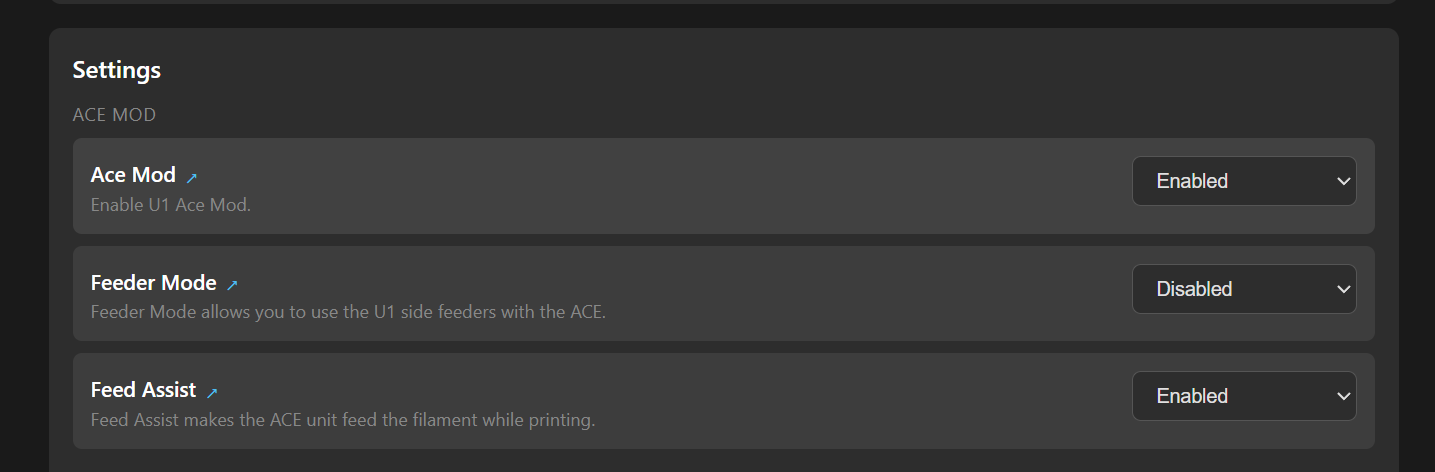
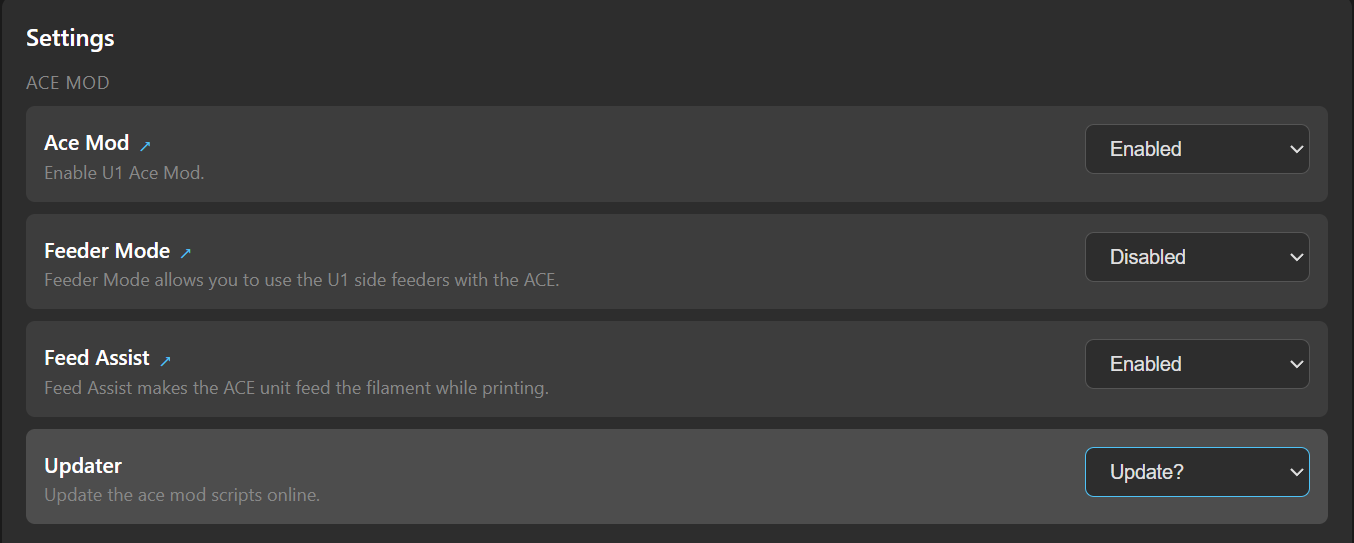
Update Readme

diff --git a/README.md b/README.md
@@ -38,6 +38,15 @@ To enable the ace mod use a web brower and navigate to `http://PRINTER-IP/firmwa
 
 <br><br>
 
+
+# Update Ace Mod
+
+To update the ace mod use a web brower and navigate to `http://PRINTER-IP/firmware-config/` and you will find `Updater` in the Ace Mod options<br>
+Select `Update Now` and the script will check for updates and apply them
+
+<br><br>
+
+
 # Klipper Settings
 
 These are the default config values found in `/extended/mods/ace_device.cfg`, you do not need to modify these unless there is an issue.
